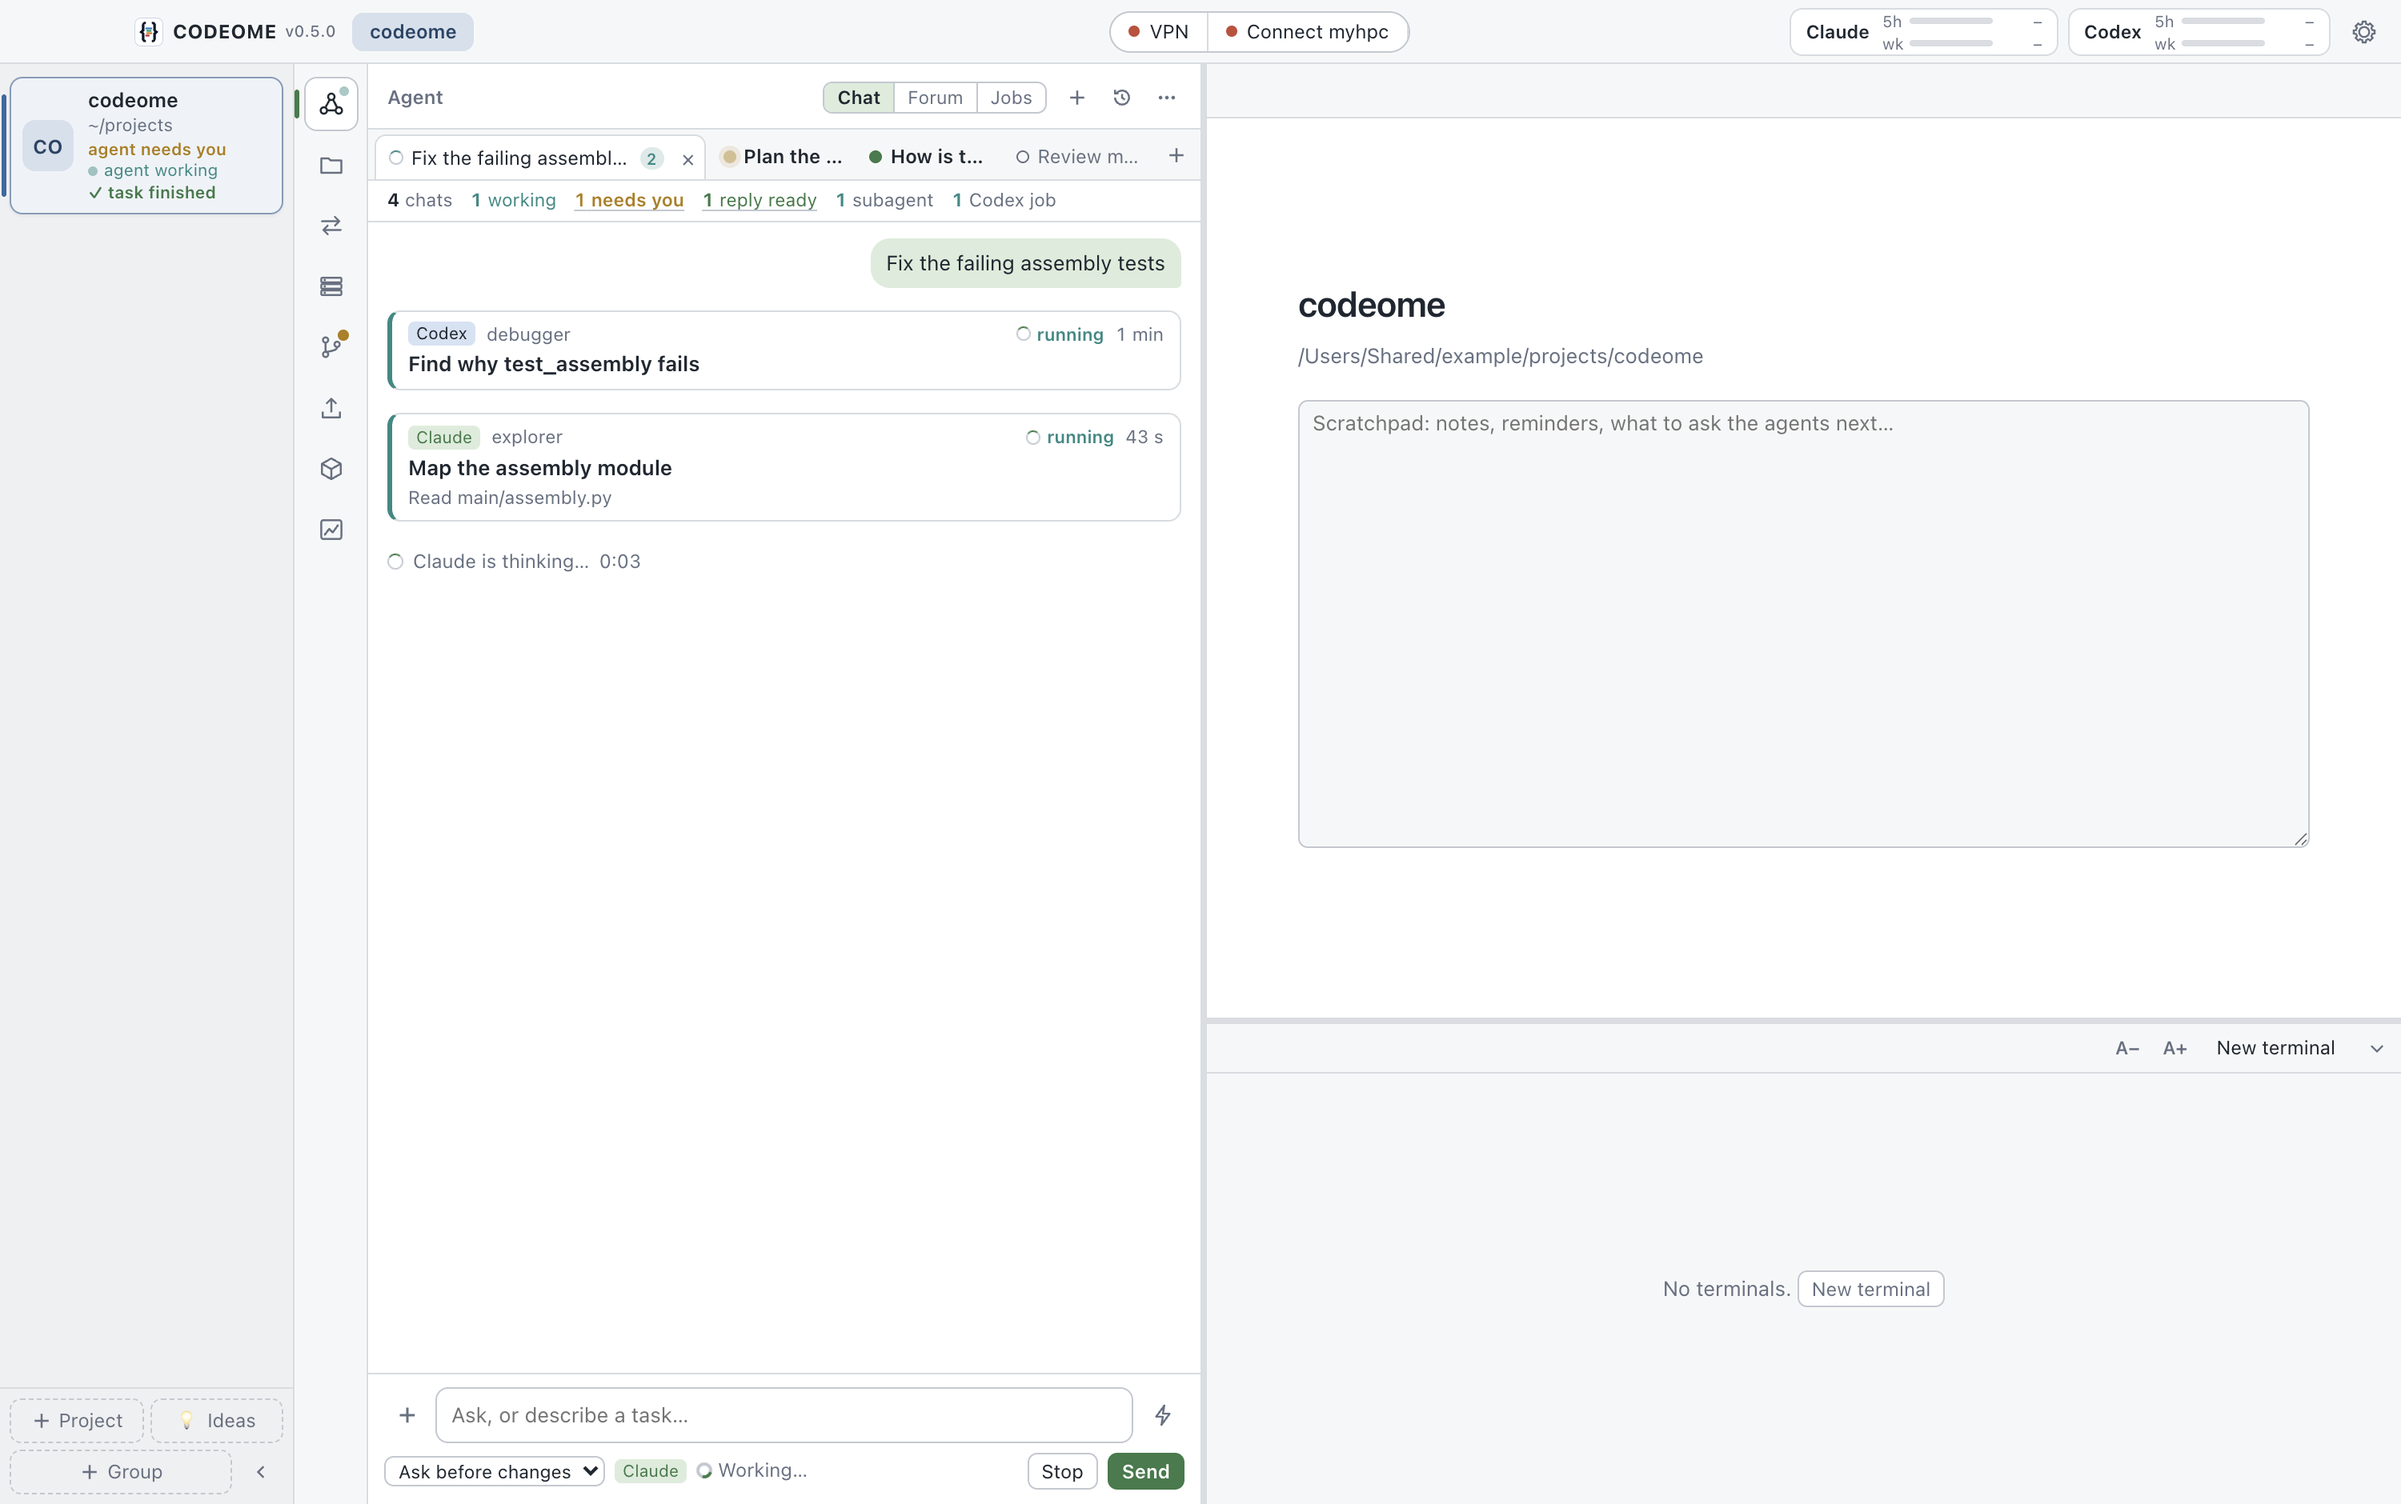
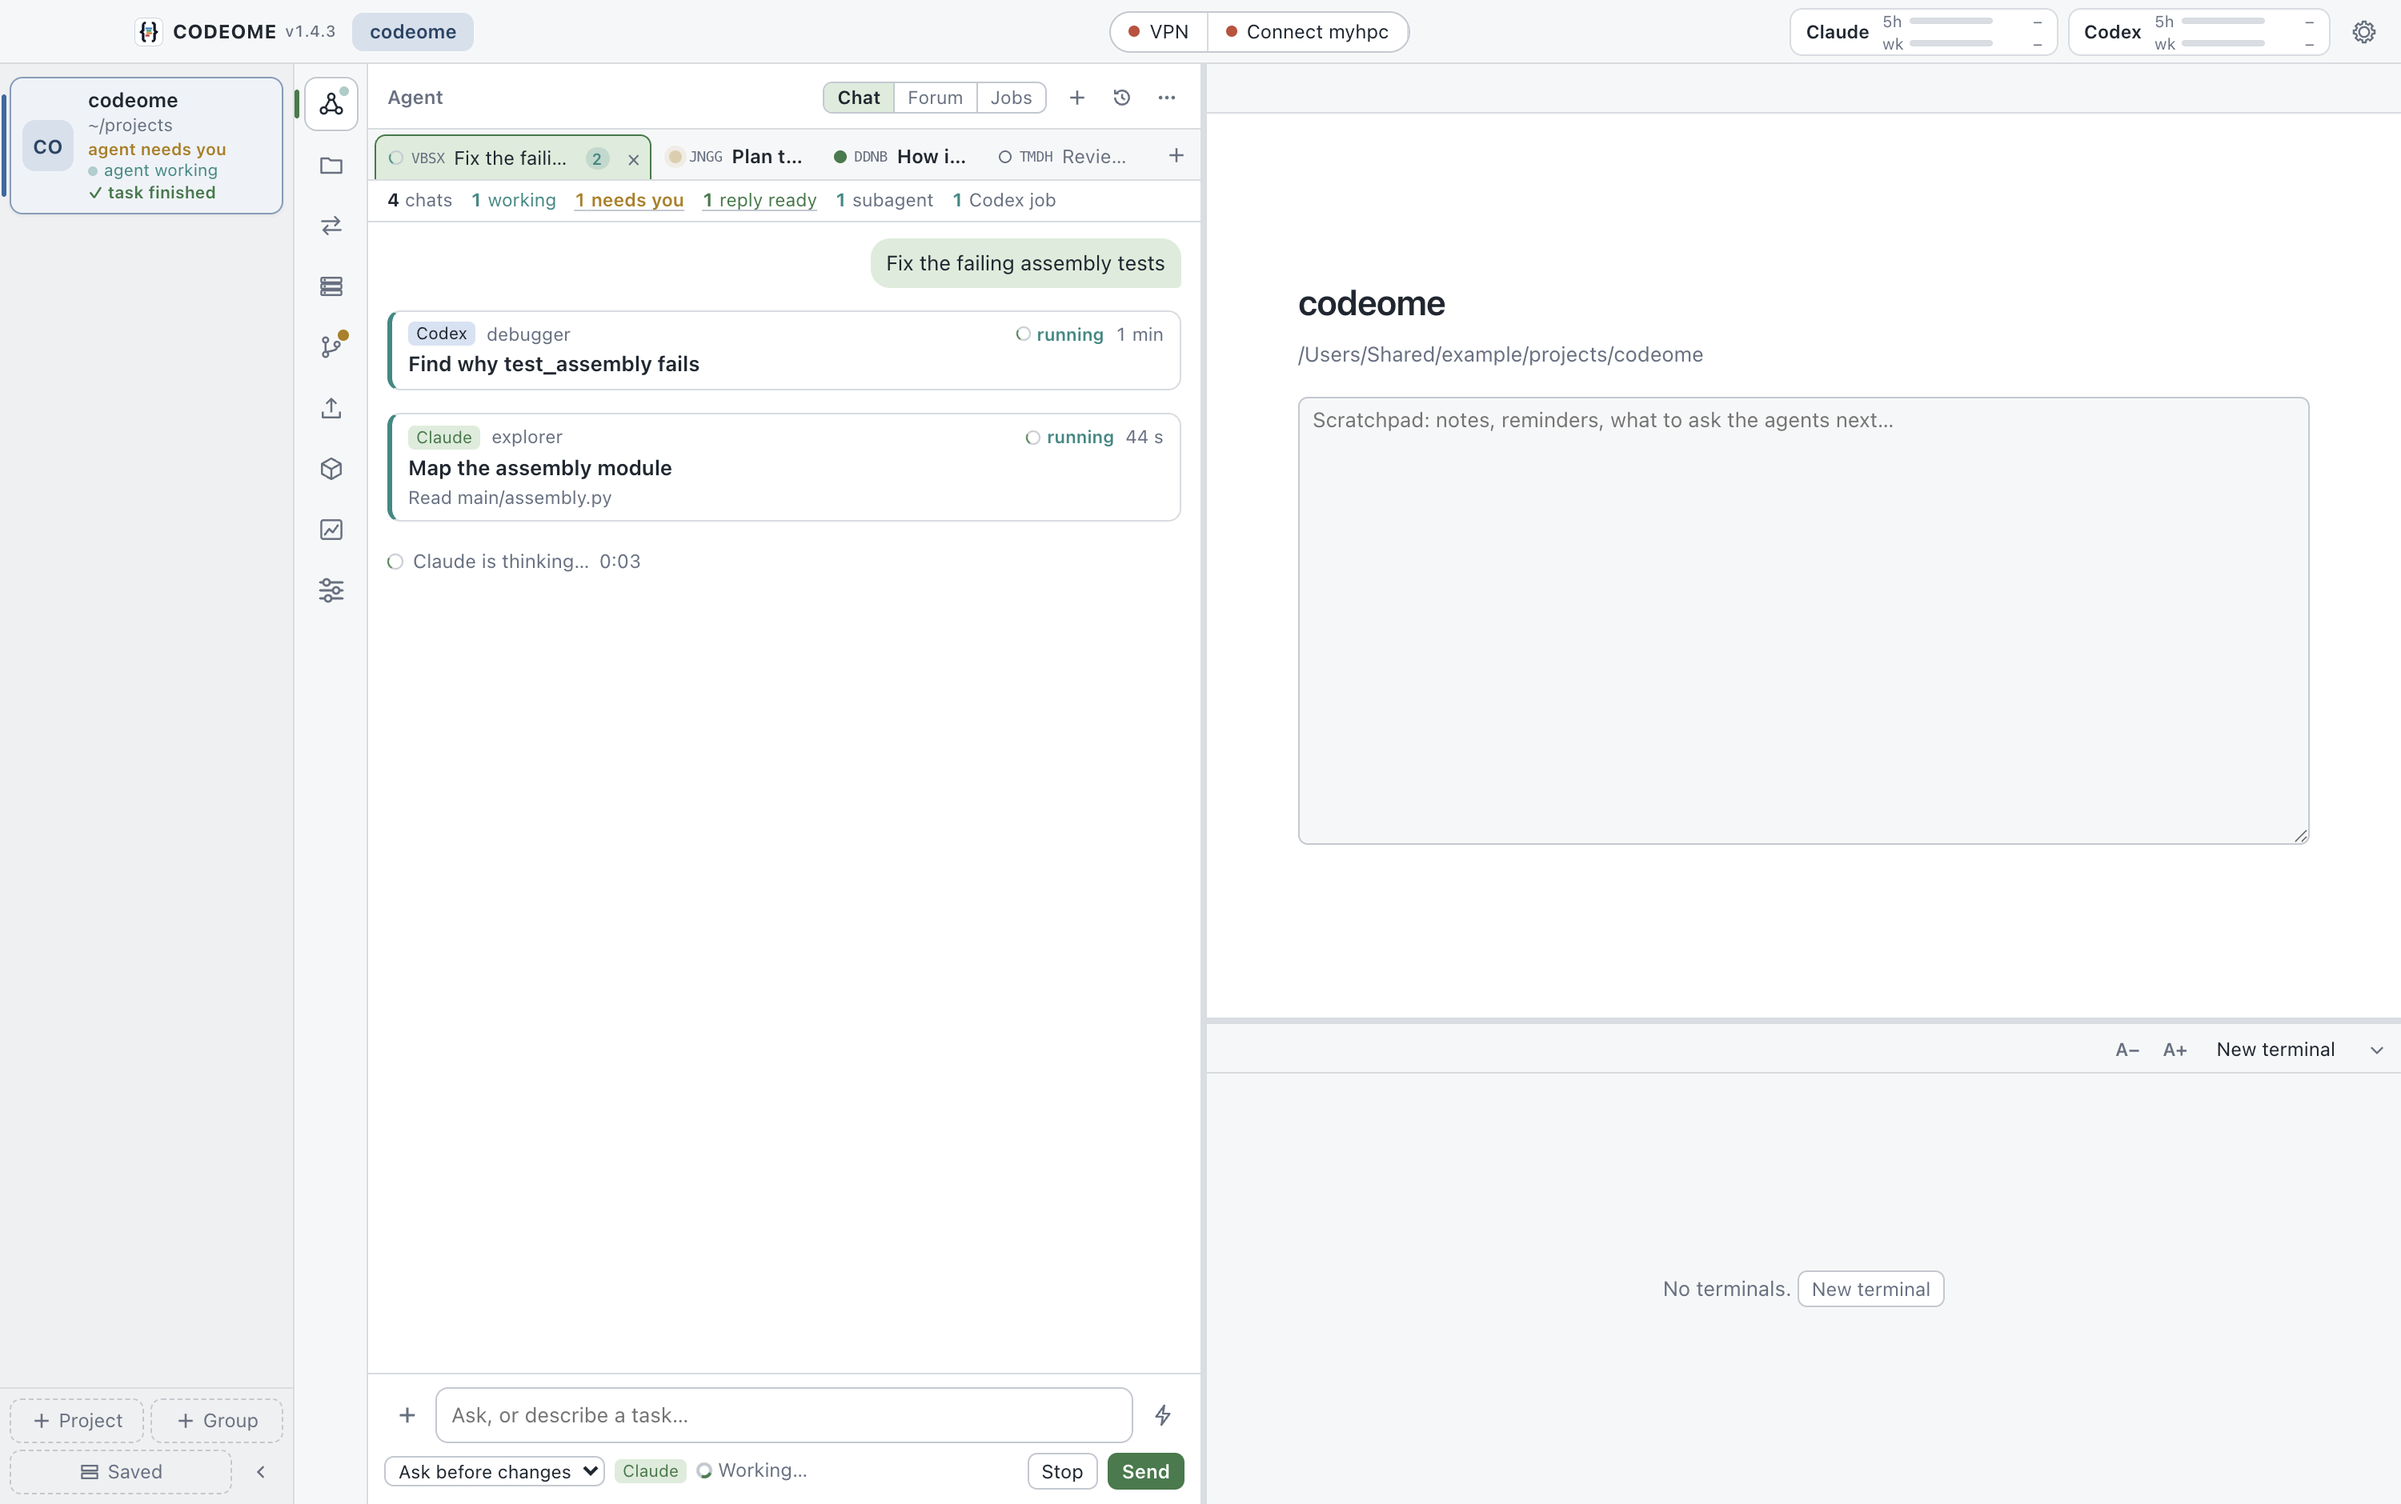
Docs: show chat codes, collision warnings, HPC reconnect and the detach hook
New screenshots of the tab codes and the collision notice, refreshed chat
screenshots, and guide and reference text for the HPC auto-reconnect and the
kit 0.9.1 hook.

diff --git a/docs/guide/agent-chat.md b/docs/guide/agent-chat.md
@@ -2,7 +2,7 @@
 
 Open the Agent chat with `⌘1`. It gives you agent chats per project, instead of separate Claude Code and Codex windows. Behind each chat is a headless Claude Code session acting as the orchestrator. It answers questions and makes small changes itself. For anything bigger it plans the work, checks with you, and hands it to specialists, whether Claude subagents or Codex jobs. To give the agent a team of roles, see [The team](/guide/team).
 
-<Shot src="/screens/agent-chat.webp" alt="Agent chat with four chat tabs, a Codex debugger job and a Claude explorer job running, and a message box with a permission selector" caption="The chat sits in the middle column, with tabs for each chat, job cards under the message and the permission selector below the message box." width="1500" height="940" />
+<Shot src="/screens/agent-chat.webp" alt="Agent chat with four chat tabs, each with its 4-letter code, a Codex debugger job and a Claude explorer job running, and a message box with a permission selector" caption="The chat sits in the middle column, with tabs for each chat, job cards under the message and the permission selector below the message box." width="1500" height="940" />
 
 ## Replies, jobs and permissions
 
@@ -40,7 +40,7 @@ An empty chat lists specialists (Analyst, Coder, Manuscript writer) with example
 
 Each chat is a tab above the conversation and runs its own session, so one can plan while another fixes a bug. `⇧⌘N` (or the `+` in the tab bar) opens a new chat; the `+` in the chat header creates a new agent, for this project or for all of them; `⇧⌘]` / `⇧⌘[` switch. Each tab shows its state: a spinner while the agent works, amber when it is waiting for you, green when a reply is ready that you haven't seen, red after an error. A badge counts the specialists that chat has running. The line under the tabs sums it up (for example *3 chats · 1 working · 1 needs you · 2 subagents · 1 Codex job*). Click *needs you* or *reply ready* to jump to that chat. Project cards and the rail icon show the same states for every project.
 
-<Shot bare src="/screens/detail-chat-tabs.webp" alt="Chat tab bar with four chats and the summary line 4 chats, 1 working, 1 needs you, 1 reply ready, 1 subagent, 1 Codex job" caption="The line under the tabs counts chats, working, needs you, reply ready, subagents and Codex jobs." width="544" height="82" />
+<Shot bare src="/screens/detail-chat-tabs.webp" alt="Chat tab bar with four chats, each showing its 4-letter code, and the summary line 4 chats, 1 working, 1 needs you, 1 reply ready, 1 subagent, 1 Codex job" caption="The line under the tabs counts chats, working, needs you, reply ready, subagents and Codex jobs." width="544" height="82" />
 
 Every chat has a 4-letter code, shown in its tab between the status dot and the name (on inactive tabs it is hidden when more than five tabs are open) and in the tab tooltip. The code uses consonants only, so it never spells a word, and it is unique within the project and saved with the chat. Chats saved before codes existed get one when loaded; Forum seats have none. Right-click a tab and choose *Copy code XXXX* to copy it.
 
@@ -53,6 +53,10 @@ Right-click a chat tab and choose *Overview* to see the conversation as a time t
 ### Two chats editing the same file
 
 Every live chat records the files it edits in `.codeome/touched/` (git-ignored); the record is deleted when the chat closes. If a Claude chat is about to edit a file that another live chat edited in the last 30 minutes, it asks you to approve the edit and names the other chat, with its code and note. It asks once per file. The chat then shows a yellow notice (`Also edited by CODE chat-title (engine): path`, followed by the other chat's note when it has one), the other chat's tab gets a badge with a tooltip, and the line under the tabs adds *N collisions*, all for 30 minutes.
+
+<Shot bare src="/screens/detail-chat-collision.webp" alt="Two chat tabs with 4-letter codes, one with a collision badge, and the summary line under the tabs ending in 2 collisions" caption="The other chat's tab carries a badge, and the line under the tabs counts the collisions." />
+
+<Shot bare src="/screens/detail-chat-notice.webp" alt="Yellow notice: Also edited by BCDF Update parser (Claude): renderer/js/chat.js, note: Parser edits need review." caption="The notice names the other chat by code and title, the file and, when it left one, its note." />
 
 Codex chats get no approval prompt: their edits are recorded, they are warned through the prompt, and they can run `codeome-agent touched` themselves.
 

diff --git a/docs/reference/agent-kit.md b/docs/reference/agent-kit.md
@@ -8,10 +8,14 @@ Agent chat → **Install…** (in the banner, or the ⋯ menu) writes into the p
 | `.claude/skills/{orchestrate,delegate,cross-review}/` | the slash commands |
 | `.claude/skills/release/` | registry playbooks, one file each (with the release & docs group) |
 | `.claude/skills/orchestrate/routing.md` | role → default engine; edit it to change routing for this project |
-| `.claude/settings.json` | hooks that record Claude subagent jobs, and permission to run the job runner (merged into your existing settings) |
+| `.claude/settings.json` | hooks that record Claude subagent jobs and refuse hand-detached Codex runs (kit 0.9.1), and permission to run the job runner (merged into your existing settings) |
 | `.codeome/bin/codeome-agent` | the job runner (Python 3, standard library only, so it also works on the HPC) |
 
 Commit `.claude/` and `.codeome/bin/` + `.codeome/kit.json` so collaborators get the same team. The chat approves its own job-runner calls (`codeome-agent` with a brief and no other shell syntax), except `--ignore-limits`; job records, plans and worktrees are git-ignored. Updating the kit never overwrites a role or skill you have edited. Codex jobs run in Codex's sandbox (read-only for reviewers and planners, workspace-write otherwise, no network). From a terminal: `.codeome/bin/codeome-agent list`, `show <id>`, `cancel <id>`, `usage`. Pass `--account <email>` to run a Codex job on a specific account, or `--ignore-limits` to start one past the threshold.
+
+## Codex runs and the detach hook
+
+Start a Codex job with `.codeome/bin/codeome-agent codex --role <role> --title "<short title>"`, the brief on stdin, as a Bash call with `run_in_background: true`. Codeome wakes the agent when the job ends, and the run gets a card in the chat. From kit 0.9.1 a PreToolUse hook on Bash refuses a Codex run that the agent detaches by hand with `nohup`, `setsid`, `disown`, a trailing `&` or a redirect to a log file, unless the call has `run_in_background: true`. The refusal tells the agent to use the tracked form. Runs started by hand got no card, so you could not see them. The same rule is in the chat's instructions (`kit/chat.md`), so agents are told before the hook has to step in.
 
 ## Job progress
 

diff --git a/docs/guide/hpc.md b/docs/guide/hpc.md
@@ -2,6 +2,10 @@
 
 Codeome uses your system `ssh`, so `~/.ssh/config`, keys, ProxyJump and the VPN behave exactly as in iTerm2 (or, with Codeome's own VPN tunnel, only Codeome's HPC connections use the VPN; see [Settings](/settings)). You log in once, in the background: with an ssh key nothing is asked, and a password, key passphrase, one-time code or new host fingerprint is asked for in a dialog, so the terminal panel stays free for your own work. Every other operation reuses that connection for 12 hours. If the background login fails, its log offers to try again in a terminal tab. The title bar shows VPN reachability, connection state and your running / waiting / failed jobs.
 
+## When the connection drops
+
+If the connection to the HPC drops, Codeome opens it again by itself: after 3 seconds, then after 15 seconds, 1 minute and 3 minutes. A saved password or an ssh key reconnects silently; a one-time code is asked for in the usual dialog, and cancelling that dialog stops the retries. After the last try the title bar offers *Connect* again. The connection is checked every 15 seconds while the window is visible, so a drop can take up to that long to show. Disconnecting yourself never triggers a reconnect, and neither does a connection that was never up. To turn it off, clear *Reconnect automatically when the HPC connection drops* (*Connection*) in Settings → HPC → Sessions.
+
 To set the HPC login and network, see [Settings](/settings).
 
 <Shot src="/screens/settings-hpc.webp" alt="Settings HPC page with a setup checklist: OpenConnect installed, VPN tunnel not running with a Start button, ssh key with a Create key button and Connected with a Connect button" caption="The setup checklist in Settings → HPC marks each step done or open and offers its button: Start, Create key or Connect." width="1500" height="940" />
